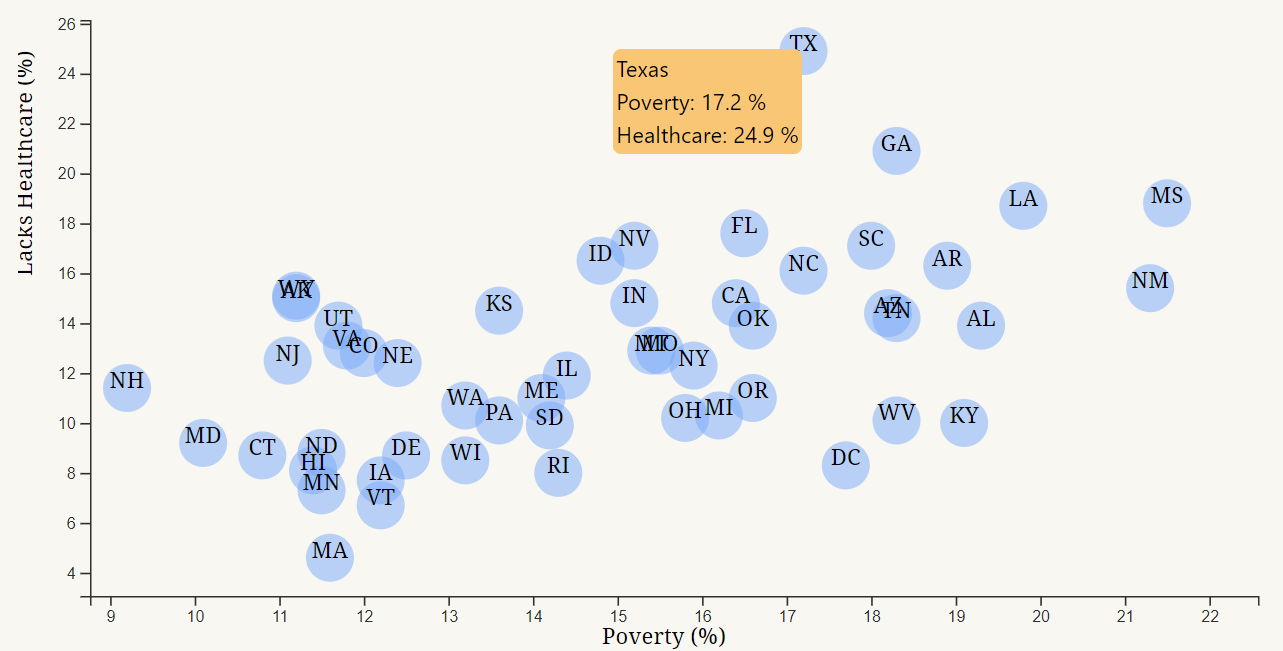
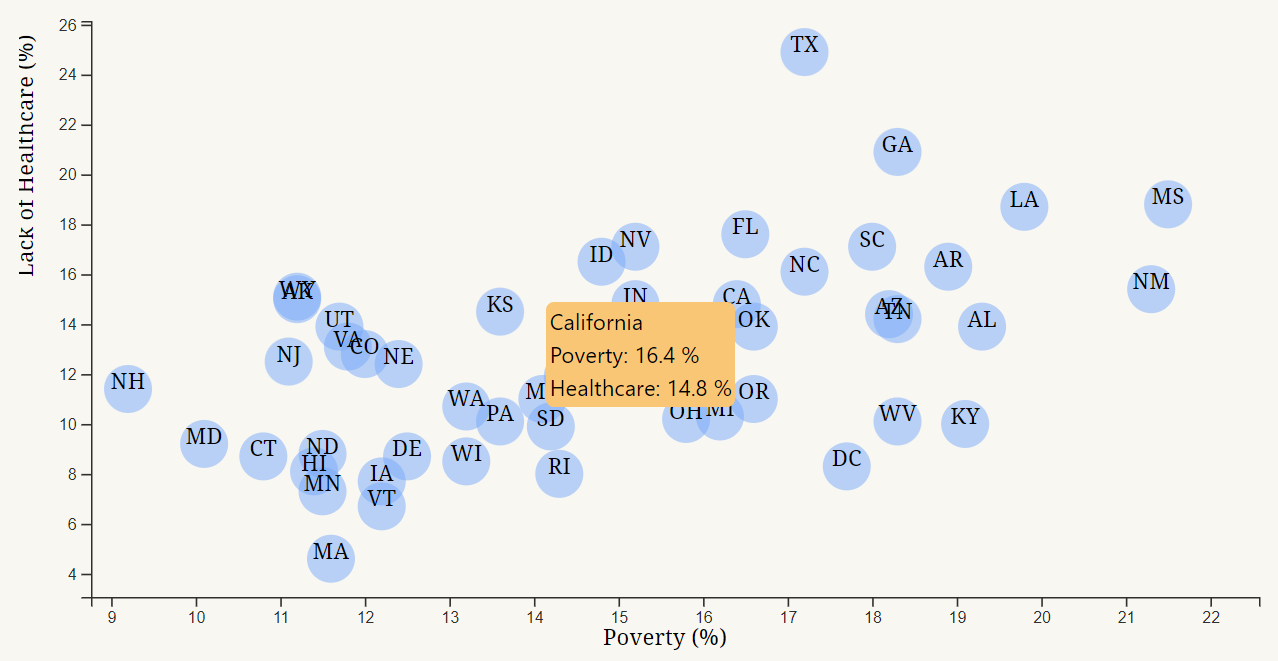
Update typo on y-axis and upload revised png files

diff --git a/D3_data_journalism/static/js/app.js b/D3_data_journalism/static/js/app.js
@@ -110,7 +110,7 @@ d3.csv("./D3_data_journalism/static/data/data.csv").then(function(censusData) {
   .attr("x", 0 - (height / 2))
   .attr("dy", "1em")
   .attr("class", "axisText")
-  .text("Lacks Healthcare (%)");
+  .text("Lack of Healthcare (%)");
 
   svg.append("text")
     .attr("transform", `translate(${width / 2}, ${height + margin.top + 30})`)
